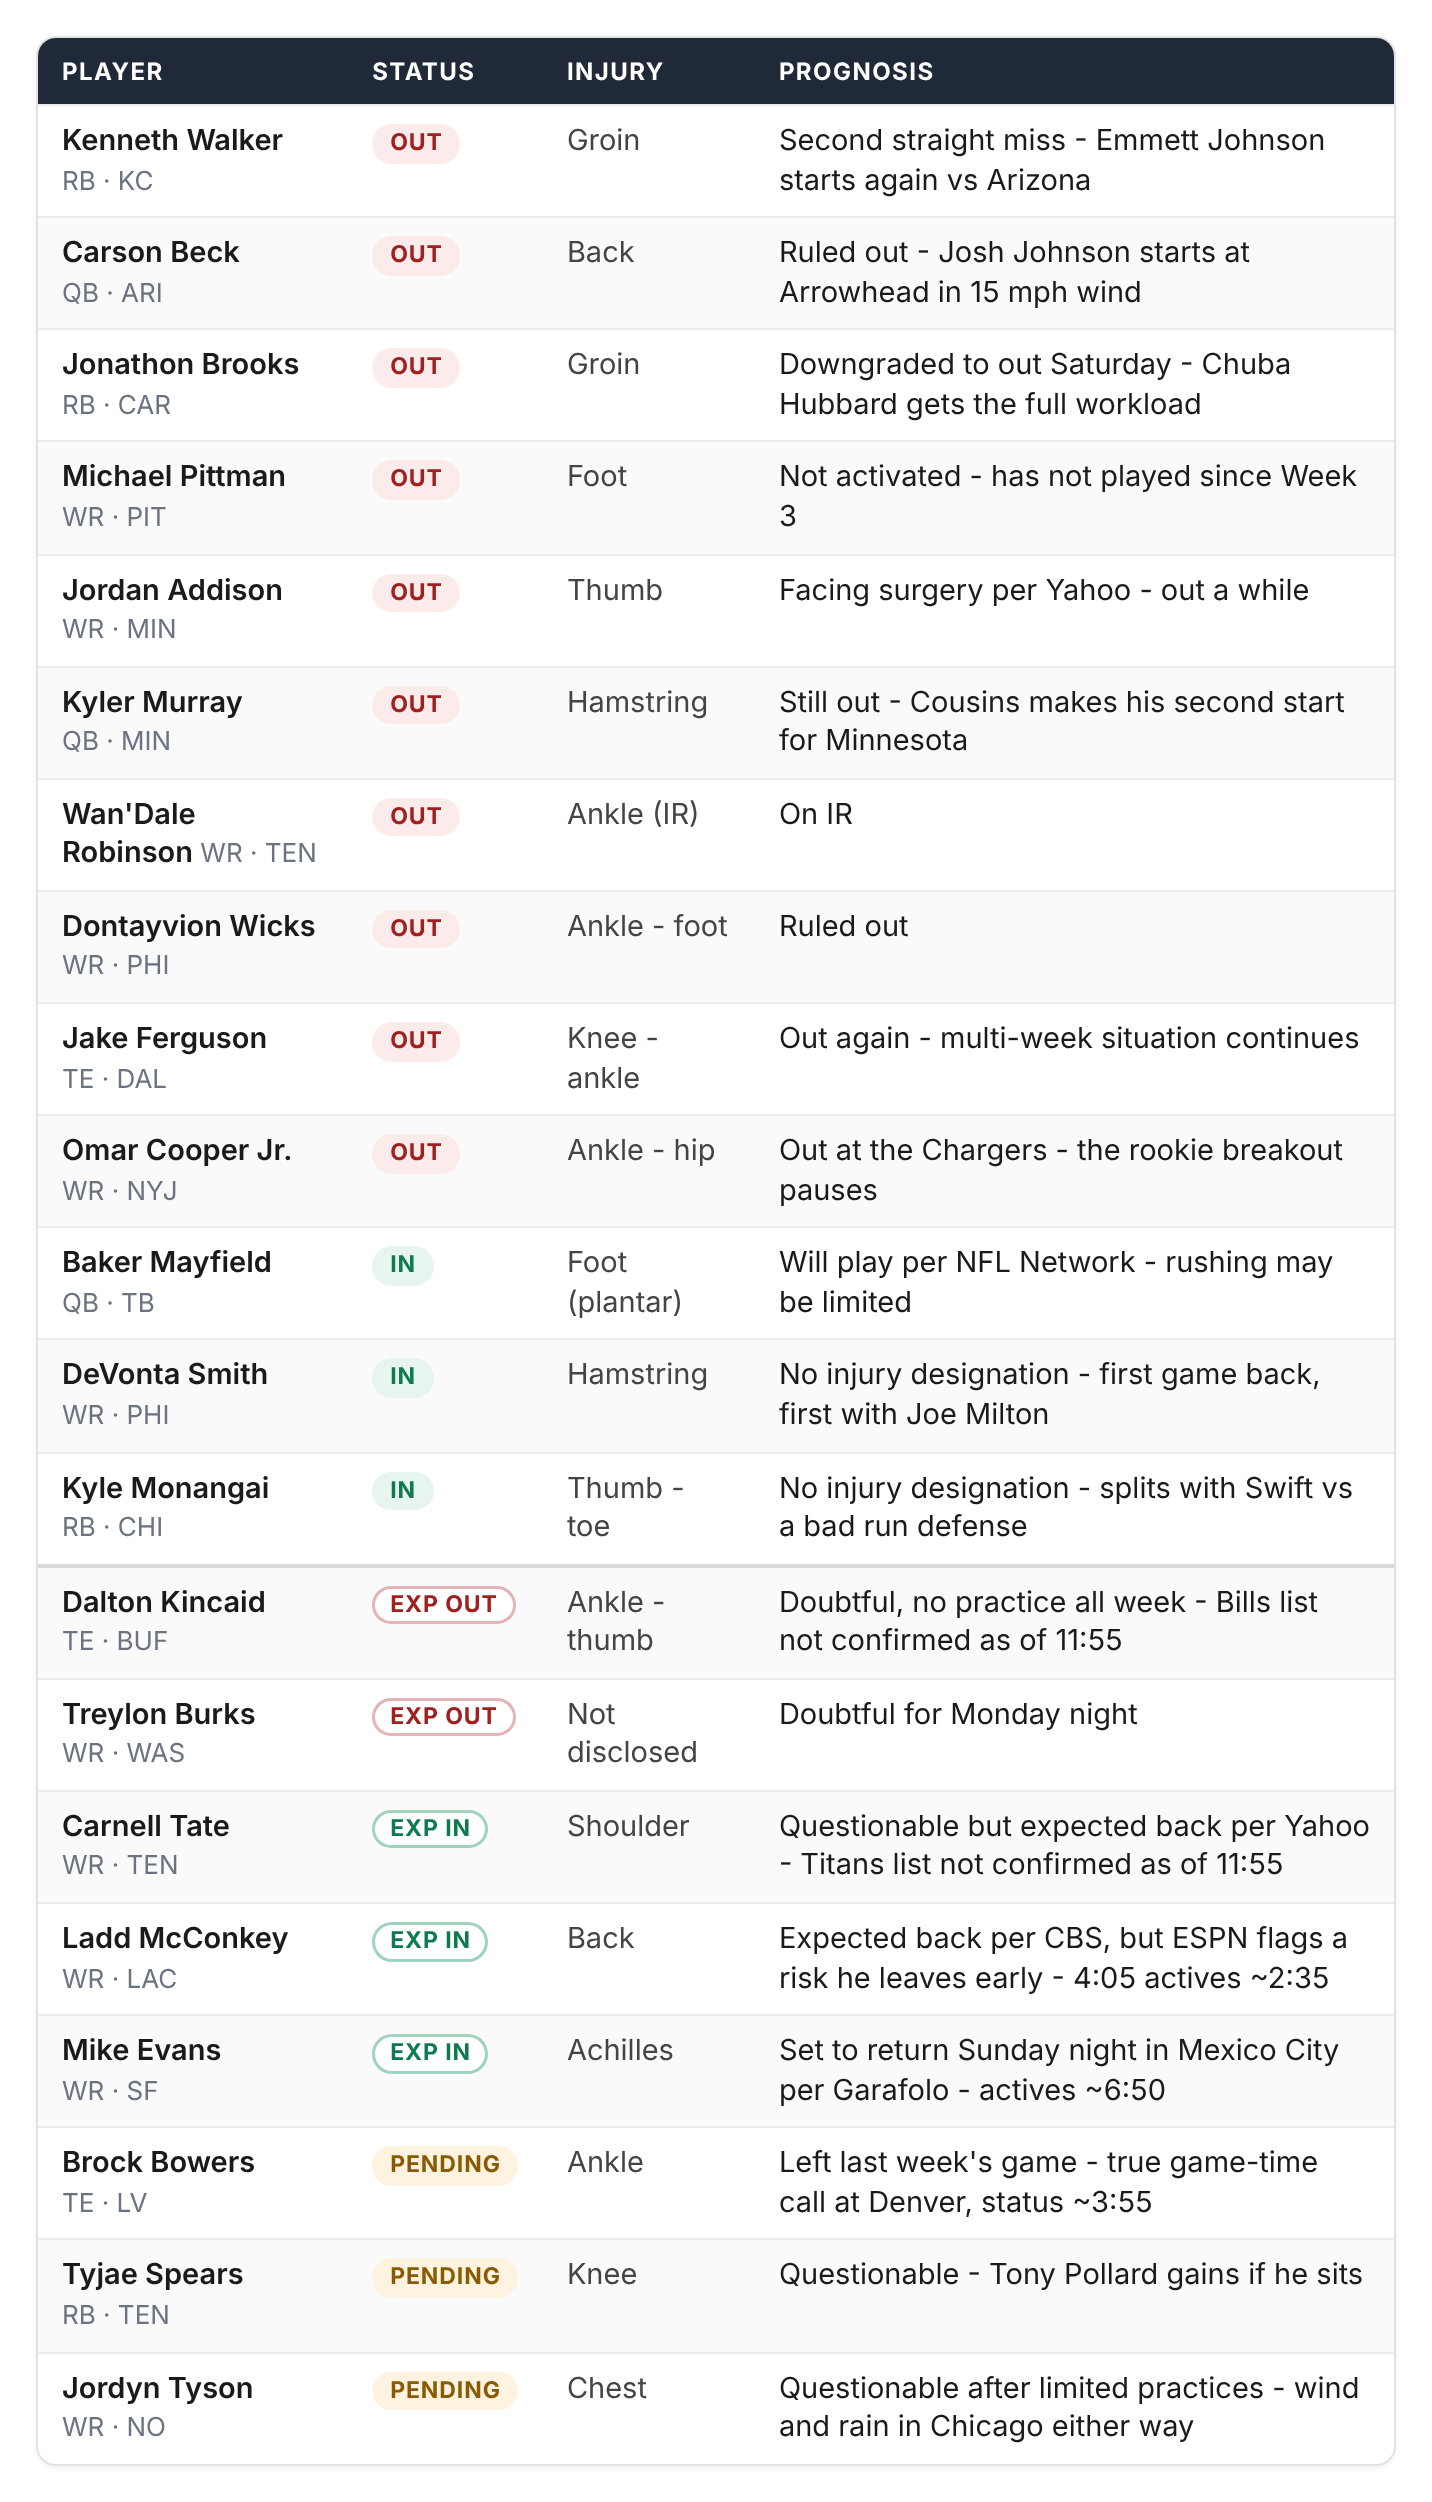
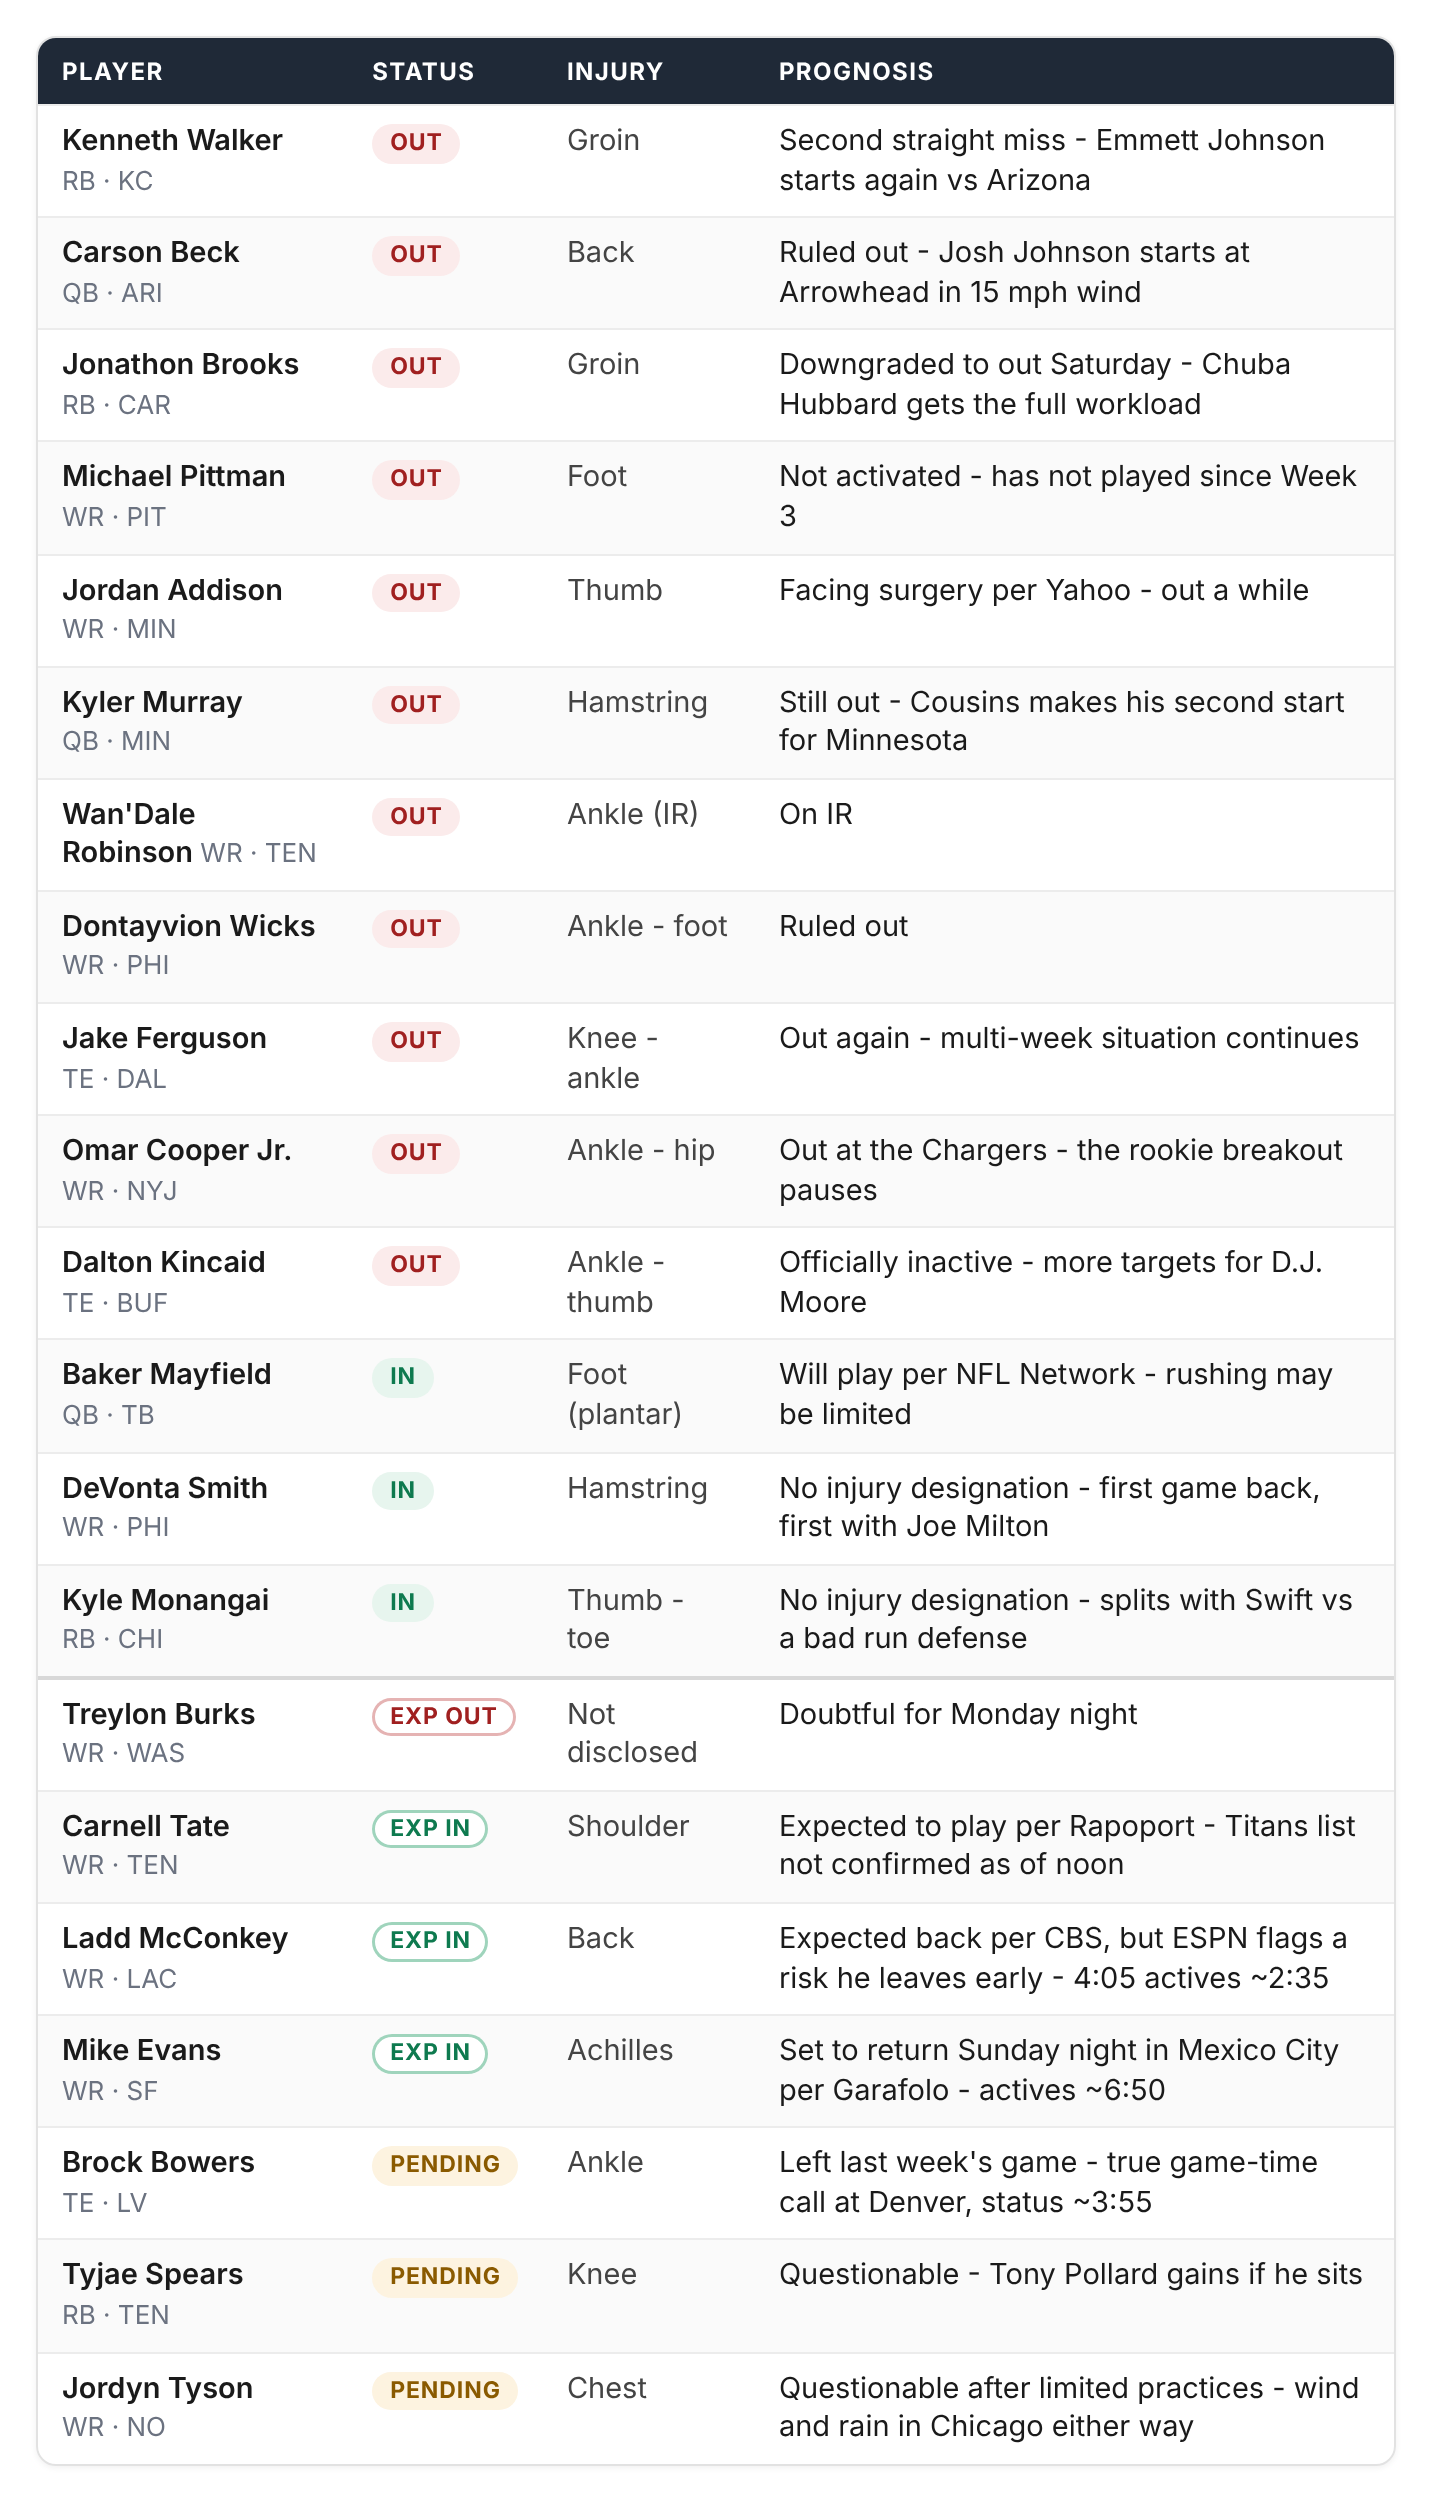
Week 11 wire: Kincaid inactive [skip ci]
Claude-Session: https://claude.ai/code/session_01LD24FbXSMtPMcXZkoCgqbd

diff --git a/data/sunday/injury-wire.md b/data/sunday/injury-wire.md
@@ -11,7 +11,7 @@
 #   - Locked rows first, not-locked rows last (renderer draws the divider).
 #   - Pipes (|) can't appear inside cell text.
 #
-# WEEK 11 — 2026-11-22 — TRUE-UP 11:55 ET (byes: ATL, CLE, GB, LAR, NE, SEA; IND-HOU played Thu; MIN-SF in Mexico City)
+# WEEK 11 — 2026-11-22 — TRUE-UP 12:00 ET (byes: ATL, CLE, GB, LAR, NE, SEA; IND-HOU played Thu; MIN-SF in Mexico City)
 
 | Player | Pos/Team | Status | Injury | Prognosis |
 |---|---|---|---|---|
@@ -25,12 +25,12 @@
 | Dontayvion Wicks | WR · PHI | OUT | Ankle - foot | Ruled out |
 | Jake Ferguson | TE · DAL | OUT | Knee - ankle | Out again - multi-week situation continues |
 | Omar Cooper Jr. | WR · NYJ | OUT | Ankle - hip | Out at the Chargers - the rookie breakout pauses |
+| Dalton Kincaid | TE · BUF | OUT | Ankle - thumb | Officially inactive - more targets for D.J. Moore |
 | Baker Mayfield | QB · TB | IN | Foot (plantar) | Will play per NFL Network - rushing may be limited |
 | DeVonta Smith | WR · PHI | IN | Hamstring | No injury designation - first game back, first with Joe Milton |
 | Kyle Monangai | RB · CHI | IN | Thumb - toe | No injury designation - splits with Swift vs a bad run defense |
-| Dalton Kincaid | TE · BUF | EXP OUT | Ankle - thumb | Doubtful, no practice all week - Bills list not confirmed as of 11:55 |
 | Treylon Burks | WR · WAS | EXP OUT | Not disclosed | Doubtful for Monday night |
-| Carnell Tate | WR · TEN | EXP IN | Shoulder | Questionable but expected back per Yahoo - Titans list not confirmed as of 11:55 |
+| Carnell Tate | WR · TEN | EXP IN | Shoulder | Expected to play per Rapoport - Titans list not confirmed as of noon |
 | Ladd McConkey | WR · LAC | EXP IN | Back | Expected back per CBS, but ESPN flags a risk he leaves early - 4:05 actives ~2:35 |
 | Mike Evans | WR · SF | EXP IN | Achilles | Set to return Sunday night in Mexico City per Garafolo - actives ~6:50 |
 | Brock Bowers | TE · LV | PENDING | Ankle | Left last week's game - true game-time call at Denver, status ~3:55 |
